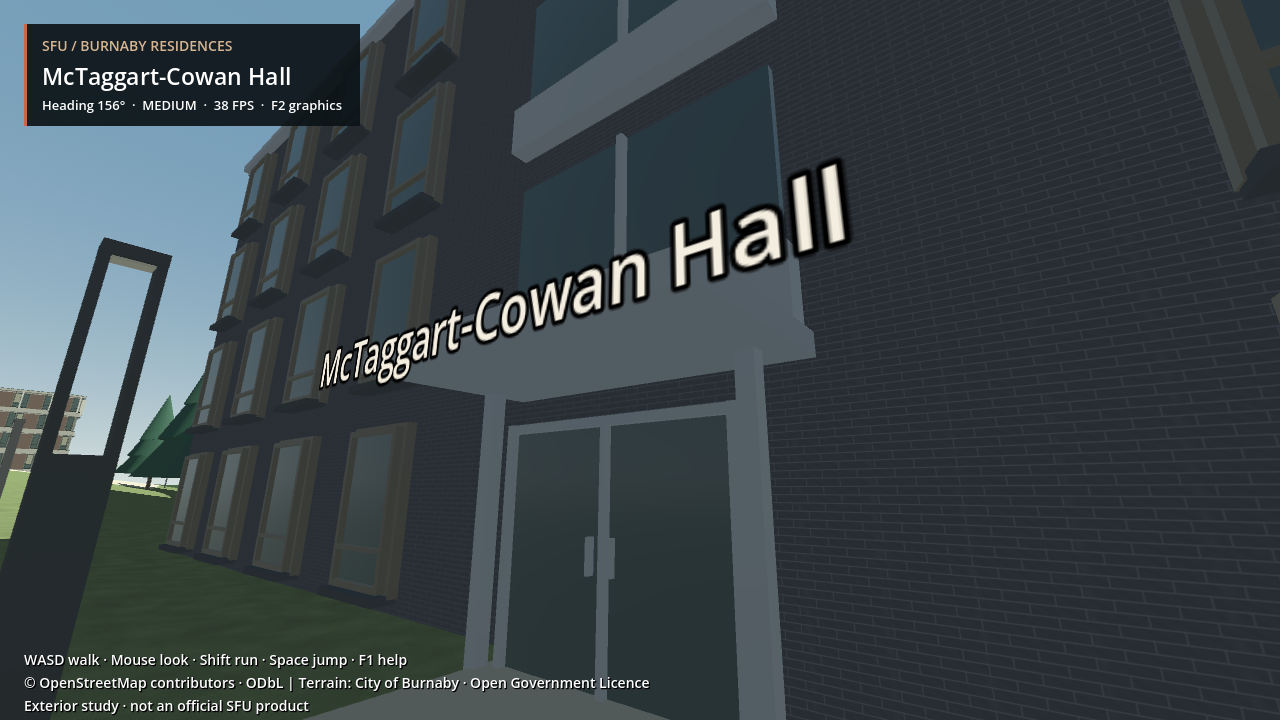
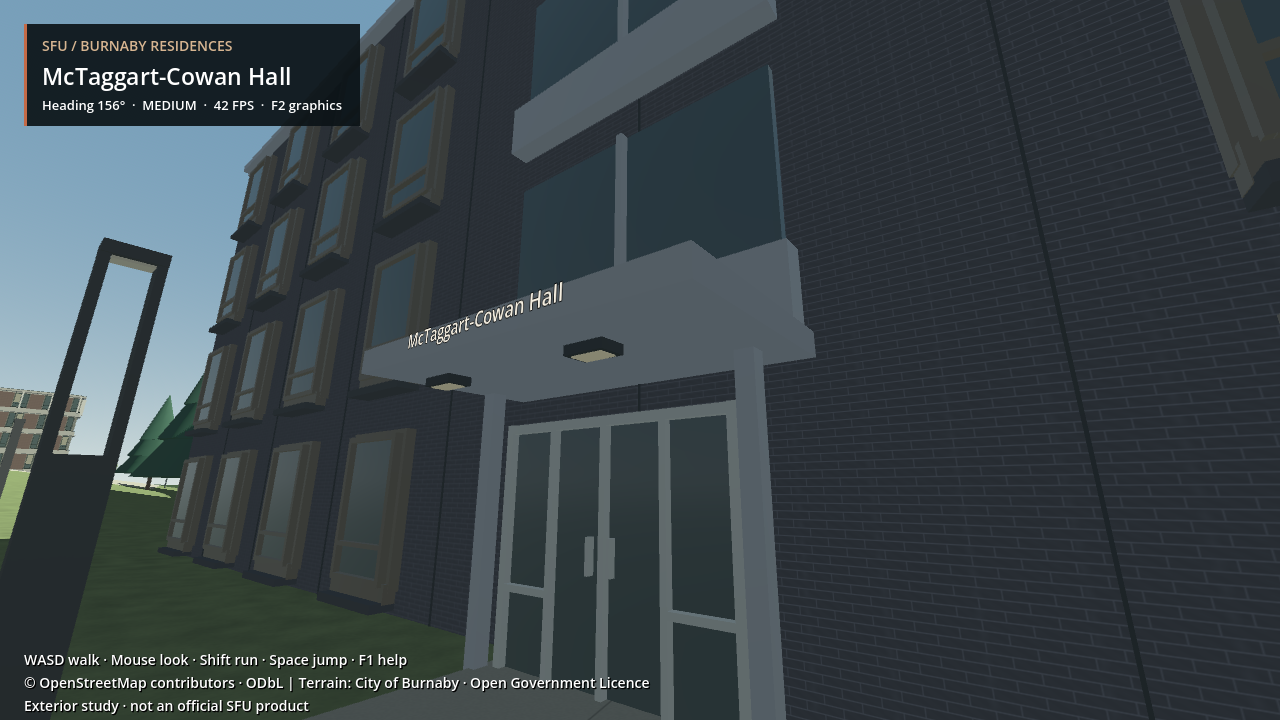
Refine McTaggart photo details and save verified photo iteration handoff

diff --git a/scripts/validate_photo_reference_index.py b/scripts/validate_photo_reference_index.py
@@ -1,0 +1,37 @@
+#!/usr/bin/env python3
+"""Report new/changed supplied photos; never equate index presence with fidelity."""
+import hashlib
+import json
+from pathlib import Path
+
+ROOT = Path(__file__).resolve().parents[1]
+EXTENSIONS = {'.jpg', '.jpeg', '.png', '.webp', '.avif', '.tif', '.tiff'}
+
+
+def main():
+    records = json.loads((ROOT / 'data/photo_review_coverage.json').read_text())
+    indexed = {record['file']: record for record in records}
+    photos = {p.relative_to(ROOT).as_posix(): p for p in (ROOT / 'reference_photos').rglob('*')
+              if p.is_file() and p.suffix.lower() in EXTENSIONS}
+    findings = []
+    if len(indexed) != len(records):
+        findings.append('Duplicate file records in coverage index')
+    for name, path in sorted(photos.items()):
+        record = indexed.get(name)
+        if record is None:
+            findings.append('NEW: ' + name)
+        elif hashlib.sha256(path.read_bytes()).hexdigest() != record['sha256']:
+            findings.append('CHANGED: ' + name)
+        elif not (ROOT / record['review_index']).is_file():
+            findings.append('MISSING REVIEW INDEX: ' + record['review_index'])
+    for name in sorted(indexed.keys() - photos.keys()):
+        findings.append('MISSING PHOTO: ' + name)
+    print(f'Photo inventory: {len(photos)} files; {len(indexed)} indexed; {len(findings)} findings.')
+    for finding in findings:
+        print(finding)
+    print('Index/hash validation does not establish architectural accuracy or reuse rights.')
+    return bool(findings)
+
+
+if __name__ == '__main__':
+    raise SystemExit(main())

diff --git a/docs/PHASE2_HANDOFF.md b/docs/PHASE2_HANDOFF.md
@@ -1,49 +1,32 @@
 # Phase 2 handoff — 2026-10-17
 
-## Latest verified checkpoint: local pavement finishes
-Courtyard massing checkpoint e642e99 remains verified (180 physics checks / 333 route checkpoints). Pavement now distinguishes grey townhouse paths, warm/grey East entrance pavers and aggregate concrete. Original path/parking polygons, terrain and collisions are unchanged. Close-view inspection caught and corrected coplanar overlap: shared world UVs and ordered 45/50/55/65/75mm visual layers remove competing patterns without physics changes. These small offsets are render separation, not actual surveyed curb heights.
-
-Smoke passed in /tmp/pavement-finish-smoke.log. Final GTX1650 Compatibility capture /tmp/pavement-final-capture.log and paving_0..2.png reviewed. Runtime reports 195 concrete, 111 townhouse-grey, 2 East-paver and 90 vehicle segments. Preservation and family validators pass. Exact material boundaries, joint orientation/spacing and apron extent are estimated. Master East/West and townhouse architecture unchanged.
-
-Next: McTaggart window/entrance detail pass; connector massing/location still requires evidence. All 46 current local photo files have individual review records in data/photo_review_coverage.json.
-
-
 ## Resume here
-Use outer game/ and current working tree. Verified commits: 1df28b3 Dining exterior, 55c709d paving/fixtures, 8d64ecf grass and capture artifacts. Latest material/index commit follows these. Earlier verified milestones: da90b52 North longitudinal gallery, 996cd31 Hamilton, 9935b61 Shell facade, 6f108df Shell grade stems.
+Canonical project: outer game/. Read git status and this handoff; do not recopy Phase 1 or redo reviewed photos. This iteration's verified commits: e642e99 Courtyard massing and 97c24d2 pavement. McTaggart details and pavement guard are the final verified checkpoint. Check latest git log for its commit.
 
-Landscape checkpoint 55c709d:
-- ResidencePavers.gd: original 256px mipmapped grey running-bond pavers, estimated 400x200mm scale, aligned to North courtyard apron. Gallery floor remains concrete.
-- CourtyardLighting.gd: open-frame charcoal fixture from user PWL 1025. Replaces generic fixture shapes at existing estimated positions near EAT/WET; no claim of surveyed light coordinates.
-- NorthTowerPassage.gd and ResidenceWorld.gd integrate these; north capture adds close-up views 13/14.
-- Four local landscape photos individually reviewed; PHOTO_REVIEW.json and PHASE2_LANDSCAPE_PHOTO_REVIEW.md record evidence and limits.
+Current final commands/logs: /tmp/photo-final-smoke.log and /tmp/photo-final-capture.log. Final capture completed; both final eye-level views inspected. Preservation/family/photo-index validators pass. Last full geometry regression: /tmp/courtyard-grade-verification.log, 180 physics checks / 333 route checkpoints / 376 terrain-ray parity checks. Later changes only affect rendering, not collisions. No unfinished geometry experiment is intentionally left in the scene.
 
-Landscape verification passed: 177 checks and 333 routes in /tmp/landscape-photo-verification.log. North views 13/14 inspected; final reduced-contrast pavers inspected in landscape_0.png using --capture-landscape. Next: original subtle grass texture while preserving terrain/collision. All prior building/route checks remain valid.
+Run `bash scripts/run_game.sh`. Existing interactive Godot process was left untouched; restart to see current work. Captures use the GTX1650 D3D12 OpenGL Compatibility device, with concurrent game load. No isolated FPS claim. Do not install dependencies or change renderer/engine.
 
-## Critical interpretation
-North gallery runs along the long courtyard-facing wing through all three houses. The user explicitly confirmed this. Do not restore the superseded transverse tunnels or infer ground layout from upper-floor plans. Parking stair prototype is archived at /home/danik/Backups/SFU-North-stair-prototype-20261016 and requires corrected-gallery location audit before reuse.
+## Completed this window
+Courtyard now has highrise/lowrise/atrium height zones instead of an eleven-storey solid extrusion everywhere. Original footprint union preserved exactly; highest roof unchanged. East-end glazing, closed atrium entry and grade-following stems improve the handpicked-photo match. Three additional roof-ray checks validate configured zone heights, not surveyed dimensions. See PHASE2_COURTYARD_PHOTO_REVIEW.md.
 
-Hamilton north entrance is photo/upper-plan-informed, exact ground dimensions estimated. Preserve wide portico supports at their tested positions; earlier supports blocked routes. Exclude mismatched local image 1726522313260.jpg pending identification.
+Pavement has original mipmapped aggregate textures, grey townhouse paths and local warm/grey East pavers with pale borders. First close-up exposed z-fighting; shared world UVs and small ordered visual offsets fixed it. Final nearest-entrance guard excludes McTaggart from East's material area. Original centrelines, widths, parking polygons and terrain collision are intact. Extents, joint spacing/orientation and paver dimensions are estimates. See PHASE2_PAVEMENT_FINISHES.md.
 
-Shell has four total levels per SFU, but photos show three exposed levels at entry. Long-frontage photo door vs old short-end route anchor remains unresolved. Dining north finish uses 2021 design intent and construction photos; no current as-built confirmation. See building reviews and PHASE2_PHOTO_REFINEMENT_BACKLOG.md.
+McTaggart detail pass: bronze window aprons, thinner vertical envelope seams, pale closed entrance divisions and two canopy-light housings with subdued emissive faces, no realtime lights. Navigation label reduced. Official SFU level-2 plan reviewed; three stepped wings confirmed, exact pictured ground entrance unresolved. Existing mapped door and four-level height retained. See PHASE2_MCTAGGART_PHOTO_REVIEW.md.
 
-## Preserve and operate
-Godot 4.7.2 Standard/GDScript/Compatibility, Debian WSL2, GTX1650, strict first person. User confirmed mouse works. Do not alter approved East/West or townhouse masters, FacadeKit, original geographic data, pads or terrain smoothing. No dependencies to install. Original nested game retained; obsolete nested Markdown already backed up outside project and removed.
+All 46 photo files have individual review records; data/photo_review_coverage.json hashes them. Run `python3 scripts/validate_photo_reference_index.py` on resume to locate new or changed files. Photos remain reference-only; no third-party photo pixels are shipped as textures. PWL East identification is verified by signs; no supplied photo conclusively identifies West. One Hamilton image is mismatched. Duplicate views and design renders are marked in indexes.
 
-Use bash scripts/run_game.sh; restart needed to see changes in an already running game. A separate interactive Godot process was running throughout captures; leave user session alone. FPS reports are concurrent-load observations, not isolated benchmarks.
+## Critical interpretations to preserve
+North gallery runs longitudinally under the long courtyard-facing wing, connecting PJH/BRH/SBH. User confirmed this. Never restore transverse tunnels. Parking-stair prototype archived at /home/danik/Backups/SFU-North-stair-prototype-20261016 requires location audit before reuse. Upper-floor plans do not prove ground passage/stair layouts.
 
-All edits are local. User reference photos, FILE_MANIFEST.json, historic_maps and untracked metadata must be preserved. 27 known one-off patch scripts were backed up byte-for-byte to /home/danik/Backups/SFU-iteration-helper-scripts-20261017 and removed from scripts/. Unknown files were preserved.
+Approved East/West master, FacadeKit, townhouse master, terrain smoothing/pads, first-person mouse fix and original 19-building coordinates must remain intact. Hamilton portico support spacing was collision-tested; don't narrow it. Shell has four total levels officially but three visible at photographed entry. Dining northern finish partly relies on design/construction references, not current as-built confirmation. Courtyard SFU eleven floors vs RJC twelve storeys is a documented conflict, not permission to alter global height.
 
-Continue useful evidence-backed work while usage permits. Five hours is a usage reset, not a deadline. Save status/handoff after each verified milestone; stop only on actual low-usage signal or user instruction.
+## Next useful increments
+1. Localize North parking stairs relative to corrected gallery using photos/site evidence; test traversable connections before accepting geometry.
+2. Resolve McTaggart entrance connector location and exposed levels. Photos show a recessed/faceted connector between wings, not the current flat frontage. Do not hide this discrepancy with more decorative detail.
+3. Courtyard: photo-supported roof terrace/small penthouse, forecourt paving and planting boundaries; avoid speculative placement. Current east capture (353,17) is inside boundary; old (361,17) was outside.
+4. Shell entrance/exposed-level reconciliation, then current Dining as-built references and bounded landscape improvements. Finish and verify each increment before another.
 
-## Verified grass material increment
-GroundMaterials.gd adds a subtle original mipmapped grass colour texture to the existing terrain mesh. No vertex, normal, height, collision or pad changes. This is generic surface detail consistent with planted-site references, not a surveyed species or planting map. Smoke passed in /tmp/ground-material-smoke.log; /tmp/ground-material-capture.log completed and both landscape views inspected; preservation/family validators passed. McTaggart per-photo index is now complete; Courtyard per-photo index still needs the same review. Prioritize North stair localization, then McTaggart entry/connector massing and Shell grade/door uncertainty. Keep all surveyed/confirmed geometry distinctions explicit.
+Additional notes: user source files, FILE_MANIFEST.json, historic_maps and untracked reference metadata are preserved. Original nested game is retained; obsolete nested Markdown cleanup already completed outside the workspace. This window's 16 known one-off patch helpers and pre-consolidation status/handoff were backed up to /home/danik/Backups/SFU-photo-iteration-20261017. Earlier helper backup is /home/danik/Backups/SFU-iteration-helper-scripts-20261017.
 
-## Verified McTaggart material follow-up
-Six supplied images indexed; design rendering and duplicate distinguished. Corrected mortar contrast and brick scale from completed photographs. Geometry unchanged. Smoke passed in /tmp/mctaggart-material-smoke.log. GTX1650 Compatibility capture completed in /tmp/mctaggart-material-capture.log; both views inspected, including close-up mortar/brick scale. Preservation and family validators pass. Entrance/connector massing still needs a separate photo/plan correction; this checkpoint only corrects material.
-
-## Previous iteration usage-window handoff (historical)
-Host reported 93% of the five-hour allowance used. Finished the current material correction and saved verified work; no further changes started. Next iteration: read this handoff, inspect git status, and continue the prioritized photo backlog. Do not redo completed Dining or landscape work.
-
-## Verified new iteration: Courtyard massing
-Latest resume baseline d9f9dc5. Five Courtyard photos individually reviewed and indexed. Correcting erroneous uniform eleven-storey extrusion into highrise / three-storey lowrise / lower atrium while preserving the full original outline and tallest roof height. See PHASE2_COURTYARD_PHOTO_REVIEW.md. Final /tmp/courtyard-grade-verification.log: 180 checks and 333 route checkpoints pass. GPU views inspected. Photo index coverage now 46/46 files, including individually reviewed Courtyard, East/West and Townhouse files; exact duplicates and uncertain identities recorded. Next: local paving variants and textured paths, keeping all geometry and approved architecture intact.
-
+Host reported 91% of the five-hour usage window consumed while finishing verification. Stop after saving current checkpoint; next user-started iteration resumes here. Five hours is a usage reset, not a development deadline. No automatic reset wait or resume is scheduled.

diff --git a/docs/PHASE2_STATUS.md b/docs/PHASE2_STATUS.md
@@ -1,43 +1,22 @@
 # Phase 2 status — 2026-10-17
 
-## Latest verified checkpoint: local pavement finishes
-Courtyard massing checkpoint e642e99 remains verified (180 physics checks / 333 route checkpoints). Pavement now distinguishes grey townhouse paths, warm/grey East entrance pavers and aggregate concrete. Original path/parking polygons, terrain and collisions are unchanged. Close-view inspection caught and corrected coplanar overlap: shared world UVs and ordered 45/50/55/65/75mm visual layers remove competing patterns without physics changes. These small offsets are render separation, not actual surveyed curb heights.
+## Current iteration
+- Reviewed/indexed all 46 supplied photo files. Per-building PHOTO_REVIEW.json records distinguish duplicates, renderings, uncertain identities and completed photographs. `python3 scripts/validate_photo_reference_index.py` reports new or changed photos without equating indexing with architectural accuracy.
+- Courtyard Residence: corrected the erroneous uniform eleven-storey extrusion into highrise, three-storey lowrise and lower atrium. Original full footprint and tallest roof retained. Added glazed east end, photo-informed closed atrium entrance and grade-following foundations. Commit e642e99. Lowrise/atrium heights are estimates; SFU eleven-floor vs RJC twelve-storey terminology remains unresolved.
+- Pavement: original textured concrete, fine grey townhouse paths and mixed grey/tan East entrance pavers. Shared UV origins and ordered visual offsets fix overlap flicker. All road/path/parking geometry and physics retained. Commit 97c24d2, followed by a nearest-entrance guard preventing East's finish leaking onto McTaggart's approach. Final segment counts are 196 concrete, 111 townhouse-grey, 1 East-paver and 90 vehicle.
+- McTaggart: charcoal brick with pale narrow mortar retained; added bronze window aprons, vertical envelope seams, pale entrance/sidelight divisions and two canopy-light housings. Batched geometry, no additional realtime lights. Reduced oversized navigation lettering. Exact connector/entrance massing remains unresolved; this is a detail pass, not a completed reconstruction.
 
-Smoke passed in /tmp/pavement-finish-smoke.log. Final GTX1650 Compatibility capture /tmp/pavement-final-capture.log and paving_0..2.png reviewed. Runtime reports 195 concrete, 111 townhouse-grey, 2 East-paver and 90 vehicle segments. Preservation and family validators pass. Exact material boundaries, joint orientation/spacing and apron extent are estimated. Master East/West and townhouse architecture unchanged.
+## Verification
+Courtyard geometry: 180 physics checks, 333 pedestrian route checkpoints and 376 terrain-ray parity checks passed in /tmp/courtyard-grade-verification.log. Subsequent pavement/material/detail changes do not change physics. Smoke and GTX1650 Compatibility visual capture performed for each increment. Final smoke: /tmp/photo-final-smoke.log. Final capture: /tmp/photo-final-capture.log (completed; both final eye-level views inspected). Preservation/family validators pass: unchanged coordinates, terrain/pads, approved East/West master and facade kit, eight families / ten named instances / zero errors. Photo inventory: 46/46, zero findings.
 
-Next: McTaggart window/entrance detail pass; connector massing/location still requires evidence. All 46 current local photo files have individual review records in data/photo_review_coverage.json.
+Screenshots and reports are in game/docs. A separate user game remained running; capture FPS shares GPU load and is not an isolated performance benchmark. Restart the game to load changes.
 
+## Preserved / earlier milestones
+Godot 4.7.2 Standard, GDScript, Compatibility/OpenGL, Debian WSL2, GTX1650, strict first person. User-confirmed mouse fix unchanged. Approved East/West and townhouse architecture unchanged. No interiors, NPCs or API integration.
 
-## Current runnable checkpoint
-Commits 1df28b3 (Dining Commons) and 55c709d (landscape paving/fixtures), following North gallery, Hamilton and Shell milestones. Godot 4.7.2 Standard, GDScript, Compatibility/OpenGL, Debian WSL2 retained. First-person mouse fix remains unchanged and was confirmed working by the user.
+North Towers retain the corrected longitudinal courtyard-facing gallery through all three houses. Hamilton has its distinct grey exterior and north portico. Shell has concrete/brown panels, fins and terrain-contact stems. Dining distinguishes the original concrete wing and newer northern extension. See individual review documents for limitations rather than treating all buildings as photo-exact.
 
-## Verified progress
-- North Towers: shared model with the user's corrected LONGITUDINAL courtyard-side gallery connecting Pauline Jewett, Barbara Rae and Shadbolt. Previous transverse-tunnel assumptions are obsolete. Recessed closed doors, columns, rear boundary and overhead collision; connectors are estimated.
-- Hamilton: distinct grey four-level exterior, paired window projections, north portico and procedural paver apron. Two matching handpicked photos and north-oriented SFU floor plan used; one mismatching photo excluded.
-- Shell: distinct concrete/brown-panel exterior, paired narrow windows, top-storey fins and grade-following foundation stems. Official source confirms four total levels; visible three-level exposure at entrance remains unresolved.
-- Dining: original concrete south wing distinguished from northern 2022 extension; curtain wall, screens, clerestory, overhangs and grade stems. User photos cover old wing; new finish partly based on credited design rendering, not verified as-built.
-- Approved East/West and townhouse masters, original 19-building coordinates, terrain/pads, roads and parking geometry remain unchanged. No interiors/NPCs/API.
+## Remaining priorities
+North parking-stair localization; McTaggart connector and three-visible/four-total level reconciliation; Shell photo-door location and exposed levels; Courtyard roof terrace/penthouse, forecourt and planted-bed geometry; current as-built Dining finish. Landscape planting, curb/drain positions and actual pavement boundaries remain estimated. Preserve verified paths and building coordinates until new evidence supports changes.
 
-## Latest completed verification
-/tmp/dining-grade-verification.log: 177 checks, 333 route checkpoints and preservation validators passed. Family validator: eight families, ten named instances, zero errors. GTX1650 Compatibility captures completed; all four Dining eye-level views inspected. Screenshots and performance reports live under game/docs.
-
-A separate interactive game was already running during captures; measured FPS shares its GPU load. Do not claim isolated performance or guaranteed 60 FPS.
-
-## Verified landscape increment
-Photo-based North courtyard pavers and open-frame courtyard light geometry at existing estimated positions. 177 checks and 333 routes passed in /tmp/landscape-photo-verification.log. GPU capture completed and North views 13/14 inspected; final reduced-contrast paver capture inspected via --capture-landscape (landscape_0.png). Next: subtle original grass surface material, with unchanged terrain geometry.
-
-## Remaining work
-See PHASE2_PHOTO_REFINEMENT_BACKLOG.md and individual HAMILTON/SHELL/DINING/LANDSCAPE review documents. Priorities: exact North parking-stair/longitudinal-gallery relationship, planted-bed boundaries and terrain transitions, Shell entrance/above-grade exposure, as-built Dining exterior, further Courtyard/McTaggart entry detail. Photograph material evidence does not establish measured locations.
-
-## Verified grass material increment
-GroundMaterials.gd adds a subtle original mipmapped grass colour texture to the existing terrain mesh. No vertex, normal, height, collision or pad changes. This is generic surface detail consistent with planted-site references, not a surveyed species or planting map. Smoke passed in /tmp/ground-material-smoke.log. GTX1650 capture completed; both landscape views inspected. Terrain/preservation and family validators pass.
-
-## Verified McTaggart material follow-up
-Six supplied images indexed; design rendering and duplicate distinguished. Corrected mortar contrast and brick scale from completed photographs. Geometry unchanged. Smoke passed in /tmp/mctaggart-material-smoke.log. GTX1650 Compatibility capture completed in /tmp/mctaggart-material-capture.log; both views inspected, including close-up mortar/brick scale. Preservation and family validators pass. Entrance/connector massing still needs a separate photo/plan correction; this checkpoint only corrects material.
-
-## Previous iteration usage-window handoff (historical)
-Host reported 93% of the five-hour allowance used. Finished the current material correction and saved verified work; no further changes started. Next iteration: read this handoff, inspect git status, and continue the prioritized photo backlog. Do not redo completed Dining or landscape work.
-
-## Verified new iteration: Courtyard massing
-Latest resume baseline d9f9dc5. Five Courtyard photos individually reviewed and indexed. Correcting erroneous uniform eleven-storey extrusion into highrise / three-storey lowrise / lower atrium while preserving the full original outline and tallest roof height. See PHASE2_COURTYARD_PHOTO_REVIEW.md. Final /tmp/courtyard-grade-verification.log: 180 checks and 333 route checkpoints pass. GPU views inspected. Photo index coverage now 46/46 files, including individually reviewed Courtyard, East/West and Townhouse files; exact duplicates and uncertain identities recorded. Next: local paving variants and textured paths, keeping all geometry and approved architecture intact.
-
+Host reported 91% usage consumed during final verification. Finish current checkpoint and stop; resume from handoff next window.

diff --git a/docs/PHASE2_MCTAGGART_PHOTO_REVIEW.md b/docs/PHASE2_MCTAGGART_PHOTO_REVIEW.md
@@ -9,3 +9,12 @@ Pending: exact courtyard stair location/levels, three visible entrance levels ve
 Validation passed: /tmp/mctaggart-material-smoke.log; --capture-mctaggart completed on GTX1650 Compatibility and both images inspected. Protected-runtime/family validators passed. No geometry or route changes, so latest 177-check / 333-route landscape regression remains applicable.
 
 Visual limitation confirmed in capture: current entry is a simplified flat mapped frontage, while supplied photographs show an inset connector between wings. Correcting that massing needs exact orientation/footprint audit; do not claim this material-only pass completes the building.
+
+## Follow-up: window and entry details
+DSC06311-HDR-Edit-scaled.jpg and 1787671727862.jpg independently show opaque bronze aprons below the lower window lights, narrow vertical envelope seams, pale entry frames/sidelights, and two small dark downlight housings under the canopy. These are now represented by batched geometry, with a subdued emissive face rather than additional realtime lights. Dimensions and repeated spacing are estimated. Existing canopy dimensions, doorway, footprint, roof, collision and four-level baseline remain unchanged.
+
+Official SFU page https://www.sfu.ca/students/residences/housing-options/mctaggart-cowan-hall.html accessed 2026-10-17 confirms renovation in 2025 and four storeys. The linked PDF https://www.sfu.ca/content/dam/sfu/students/residences/clf3/PDFs/FloorPlans/mctaggart-cowan_hall/Mctaggart_Cowan_Hall_Floor_Plan.pdf page 2 (level 2) was rendered and visually inspected. It shows three staggered wings, connecting circulation and a south-facing field label, but is explicitly approximate and does not resolve the photographed ground entrance location. No floorplan or photo pixels are shipped in the game.
+
+Still unresolved: photographed three visible levels vs four total, recessed/faceted connector shape, which northern connector is the photographed entrance, stair alignment and grading. Do not claim that details complete the massing correction.
+
+Final detail verification: /tmp/photo-final-smoke.log passed; /tmp/photo-final-capture.log completed on GTX1650 Compatibility, both final eye-level views inspected. Preservation/family validators pass. Only rendered details changed; original solid walls/roof/canopy and routes remain intact. Small navigation lettering is not a claim of verified physical signage.

diff --git a/docs/PHASE2_PAVEMENT_FINISHES.md b/docs/PHASE2_PAVEMENT_FINISHES.md
@@ -7,3 +7,5 @@ SurfaceController preserves every original road/path centreline, width, parking 
 Known limits: exact paving extents, drainage locations, planted-bed edges, kerb ramps and construction-joint spacing need measured/site-plan evidence. No new stairs or curbs have been invented. A slight surface offset over the existing terrain avoids z-fighting; physics surface is unchanged.
 
 Verified: smoke passed; three eye-level GPU views reviewed on GTX1650 Compatibility. Close-up revealed coplanar overlap, fixed with shared world UVs and ordered visual offsets (concrete 45mm, grey paths 50mm, border 55mm, pavers 65mm, crossband 75mm). These offsets are render separation, not surveyed curb heights. Textures continue across strip overlaps. Preservation/family validators pass; physics remains the verified 180-check / 333-route baseline. See game/docs/performance_paving.json; FPS is concurrent-load, not an isolated benchmark.
+
+Final correction: proximity alone included the nearby McTaggart approach. The East finish now additionally requires East to be the nearest mapped entrance. Final count: 1 East-paver segment, 196 concrete, 111 townhouse-grey, 90 vehicle. Final smoke passed and McTaggart capture confirms its approach remains concrete.
